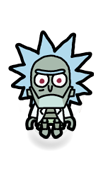
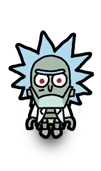
changed shadow of ricks img / readded rotate block

Changed region(s): [[0.297, 0.731, 0.6832, 0.8772], [0.4752, 0.731, 0.5347, 0.7602], [0.7129, 0.7602, 0.7426, 0.7895]]

diff --git a/lib/blocks.js b/lib/blocks.js
@@ -30,3 +30,14 @@ Blockly.Blocks['rotate'] = {
     this.setColour(240)
   }
 }
+
+Blockly.Blocks['rotate'] = {
+  init: function () {
+    this.appendDummyInput()
+      .appendField('Rotate')
+      .appendField(new Blockly.FieldDropdown([['Left', 'LEFT'], ['Right', 'RIGHT']]), 'Direction')
+    this.setPreviousStatement(true, null)
+    this.setNextStatement(true, null)
+    this.setColour(240)
+  }
+}
